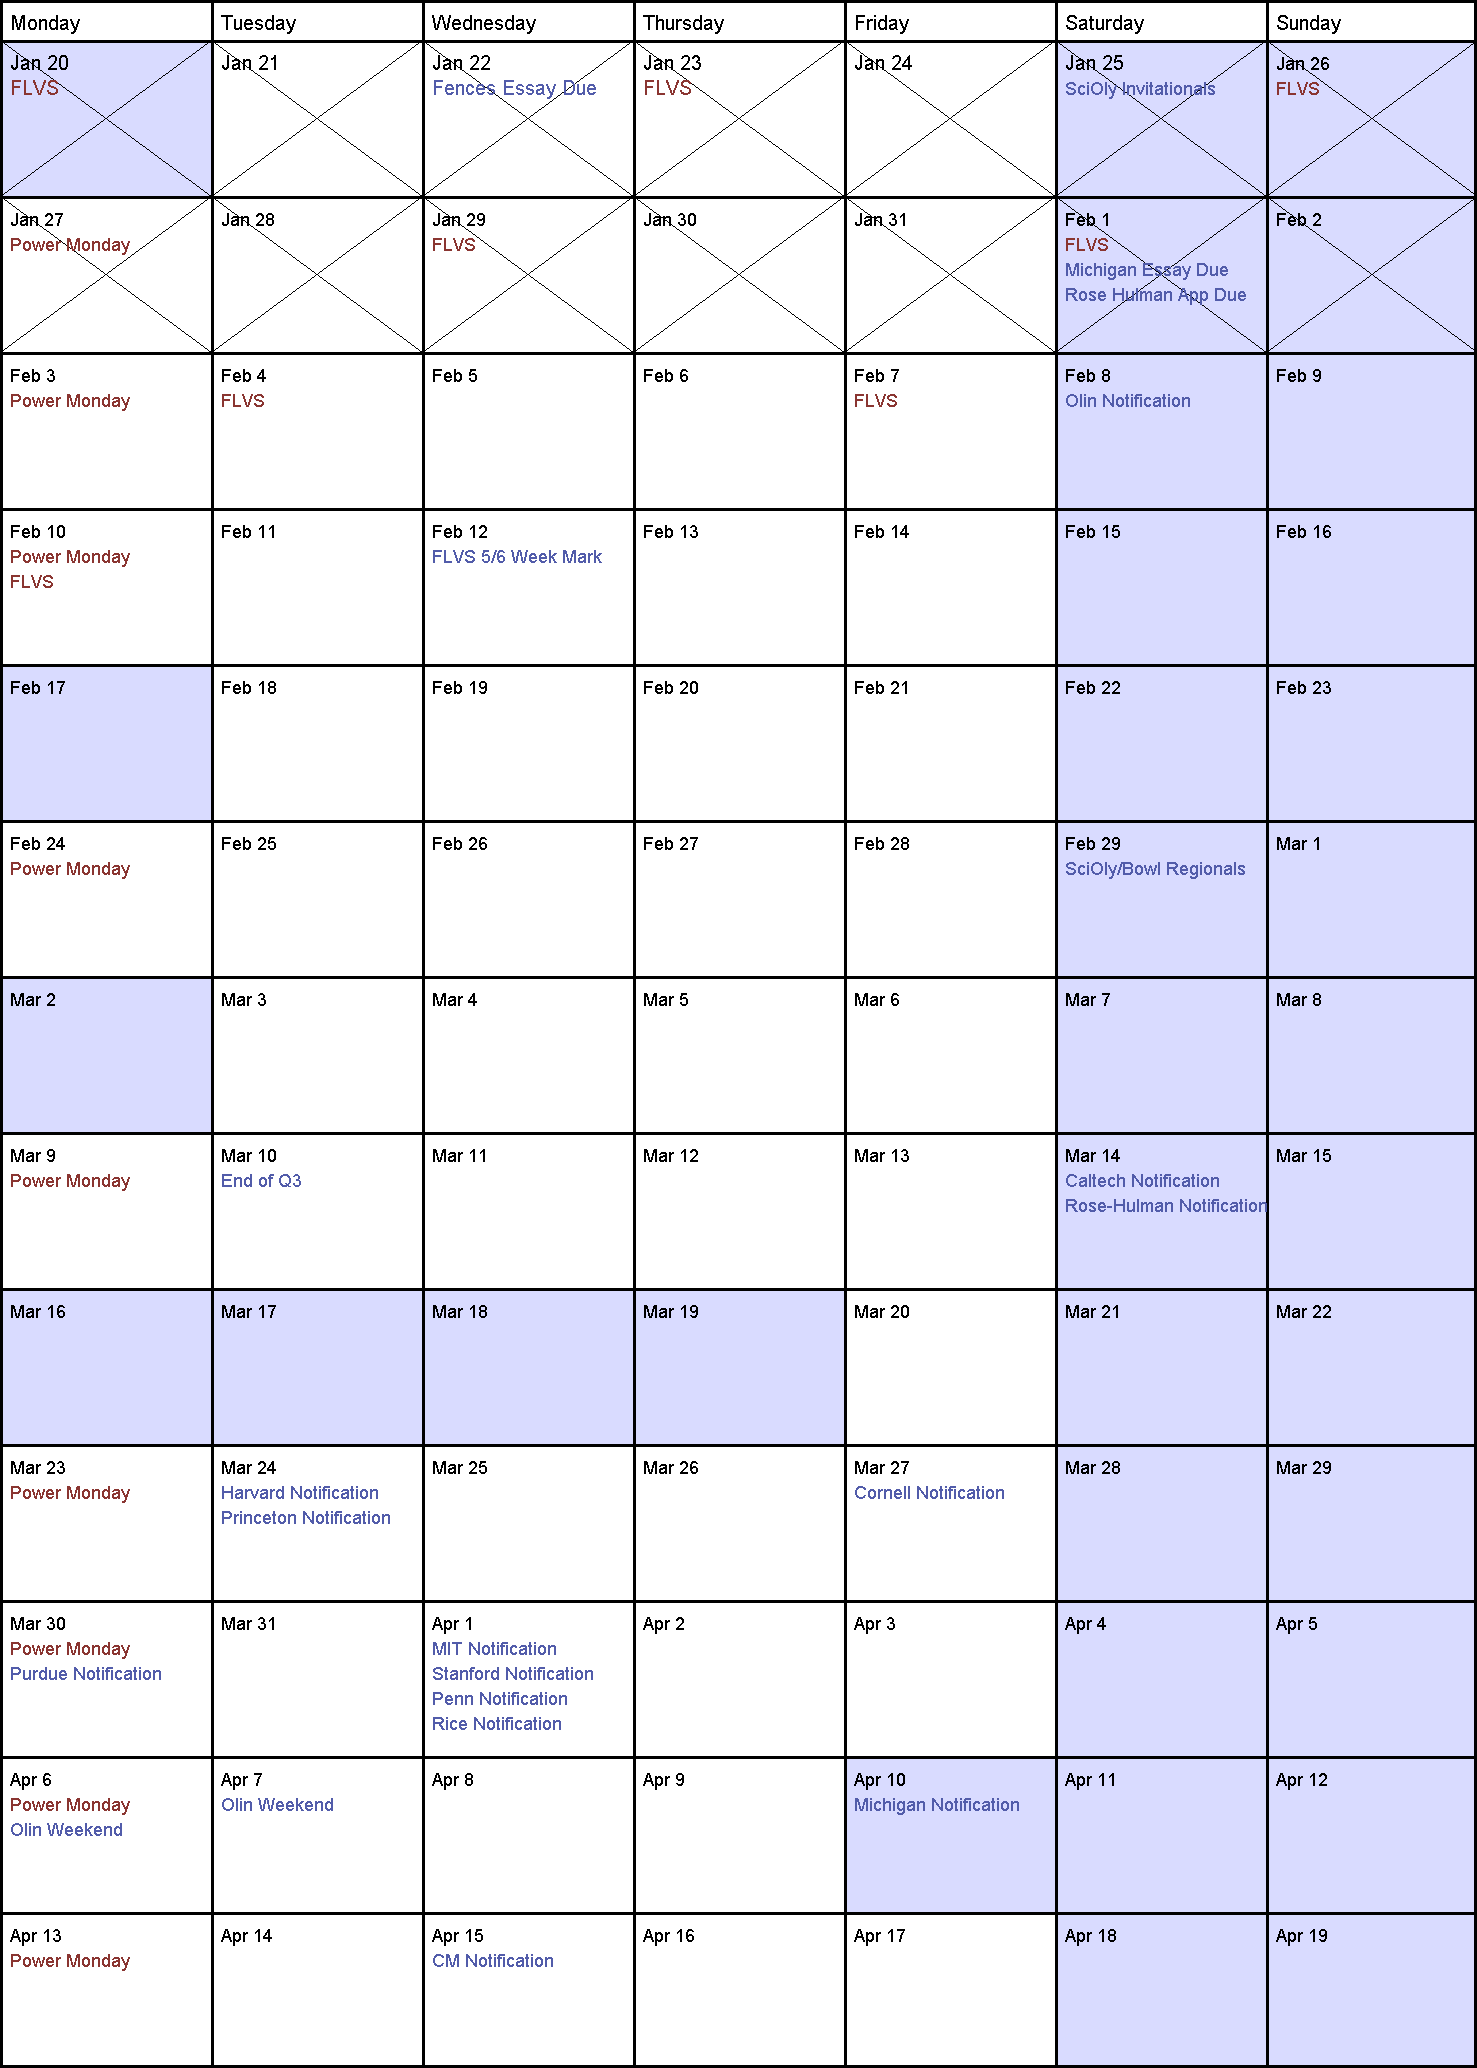
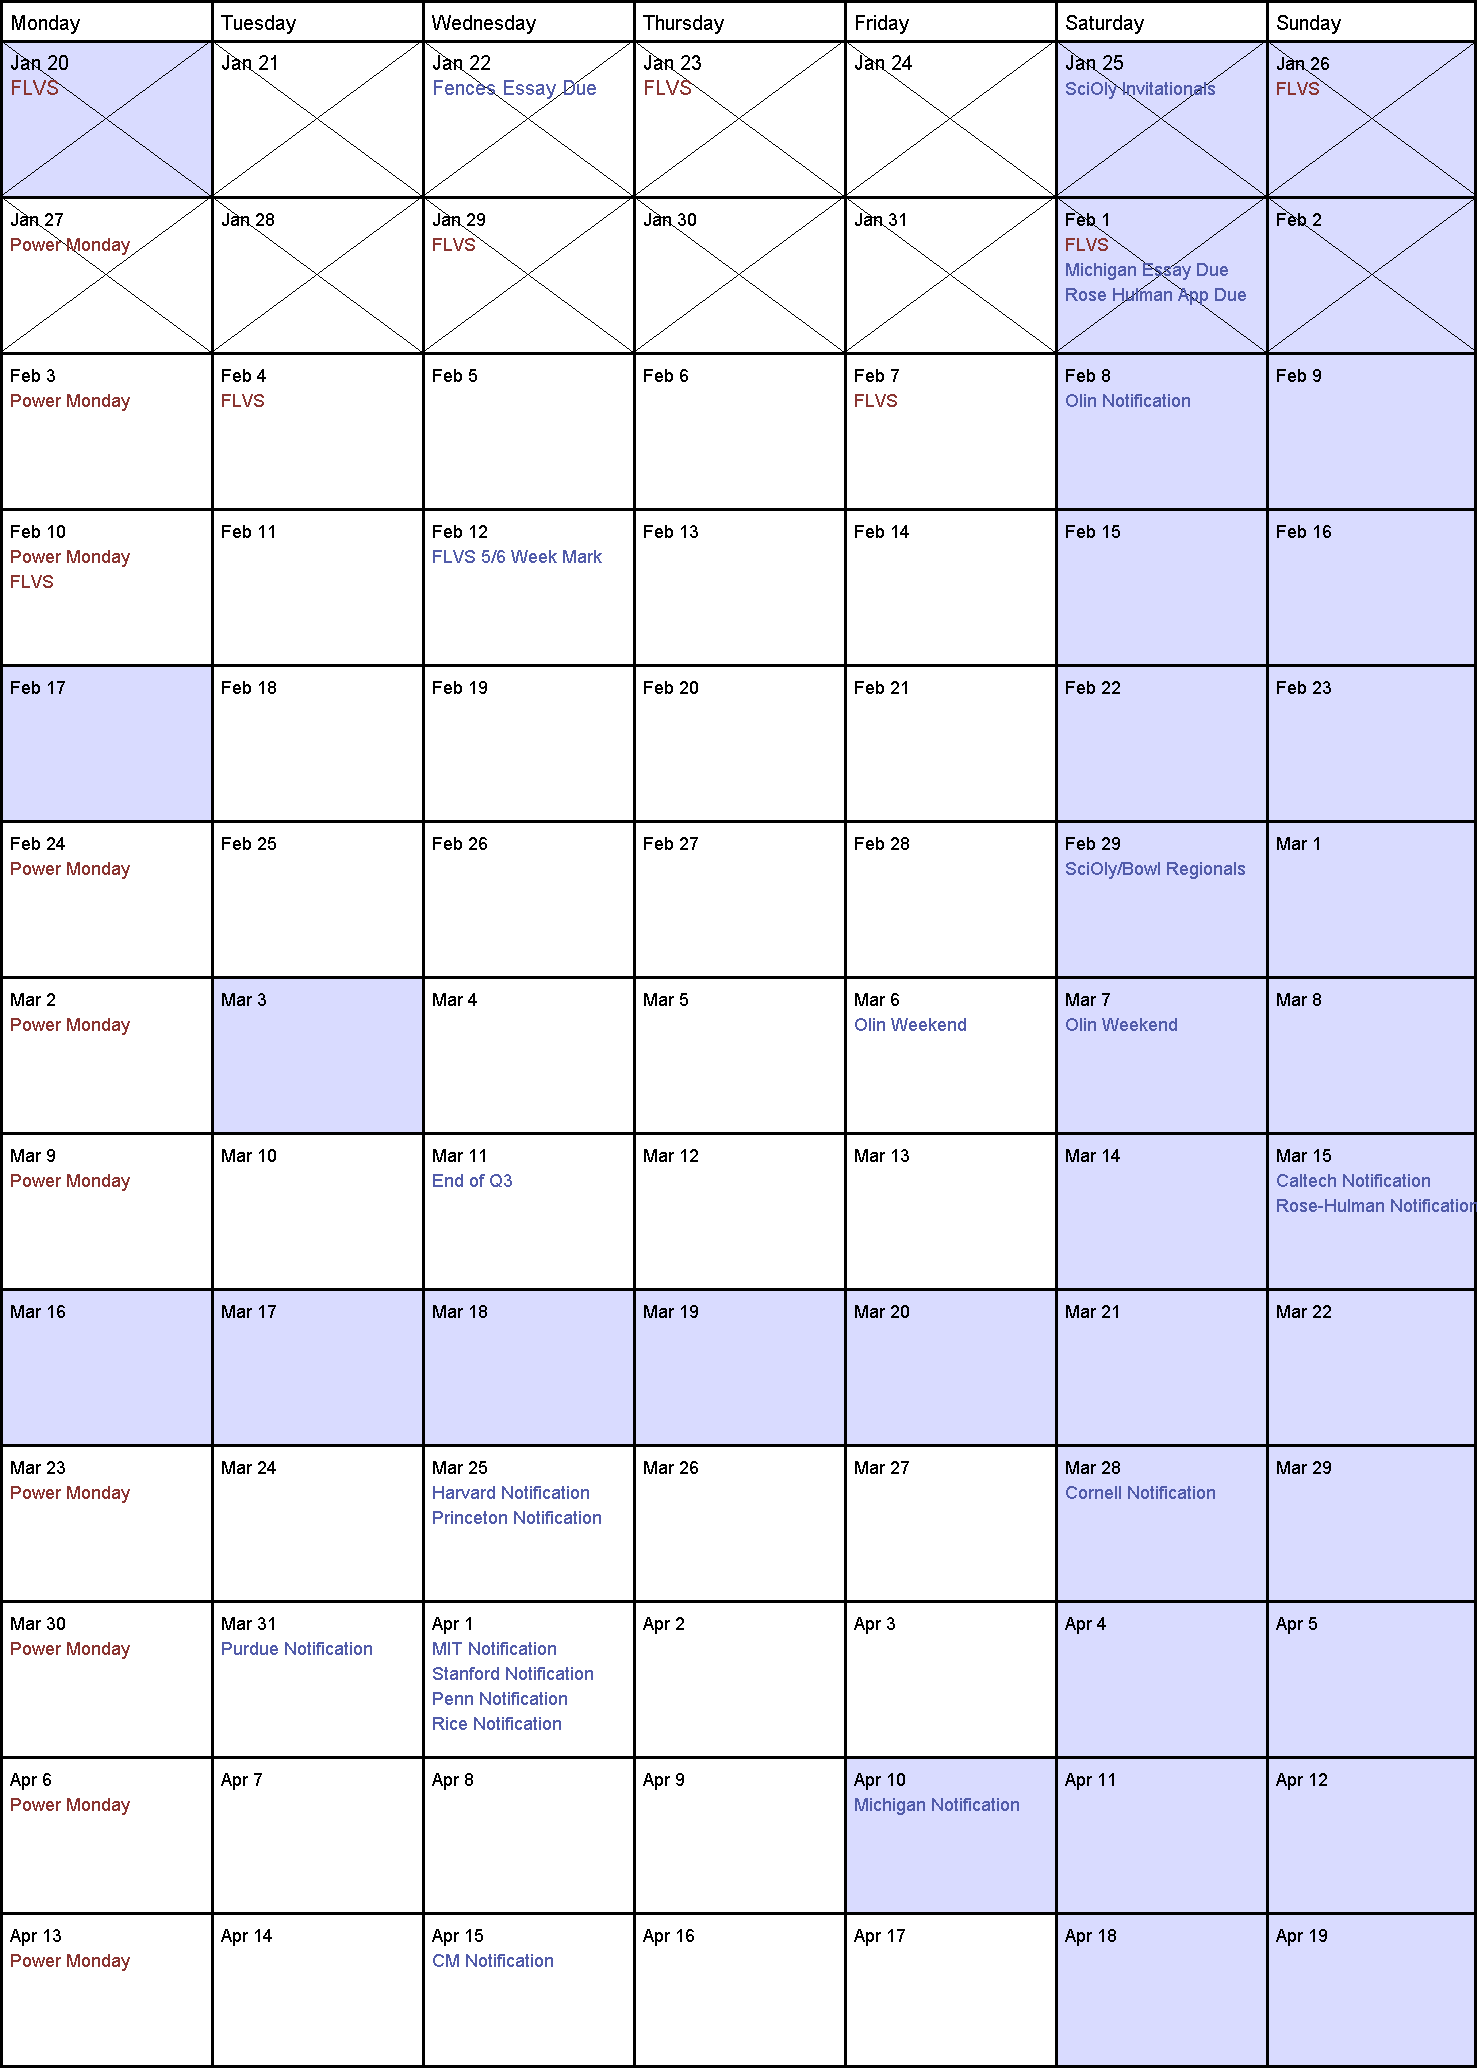
bug fix

diff --git a/src/Calendar.java b/src/Calendar.java
@@ -120,8 +120,8 @@ public class Calendar extends Applet implements Runnable, KeyListener {
         addEvent("Rose Hulman App Due", getDayofYear(1,14), 1);
         addEvent("FLVS 5/6 Week Mark", getDayofYear(12,14), 1);
         addEvent("CM Notification", getDayofYear(15,16), 1);
-        addEvent("Olin Weekend", getDayofYear(6,16), 1);
-        addEvent("Olin Weekend", getDayofYear(7,16), 1);
+        addEvent("Olin Weekend", getDayofYear(6,15), 1);
+        addEvent("Olin Weekend", getDayofYear(7,15), 1);
         addEvent("End of Q3", getDayofYear(11,15), 1);
         addEvent("MIT Notification", getDayofYear(1,16), 1);
         addEvent("Stanford Notification", getDayofYear(1,16), 1);
@@ -294,7 +294,7 @@ public class Calendar extends Applet implements Runnable, KeyListener {
         for (int i=0; i<month-1; i++) {
             if (i >= 12) {
                 d += daysPerMonth[i-12];
-                if (i==14){
+                if (i==13){
                     d++;
                 }
             } else {
